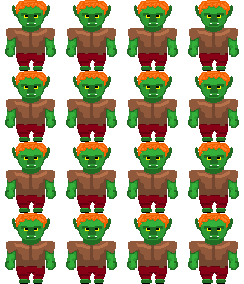
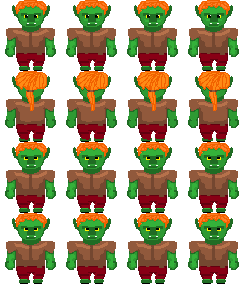
N & S directions drawn for the Orc

diff --git a/js/World.js b/js/World.js
@@ -30,7 +30,7 @@ var fallDale =   [  0, 29, 29, 29, 29, 29, 29, 29, 29, 29, 29, 33,  0,  0, 27, 1
 					0,  0,  0,  1,313,314,  0,  0,  0,  0,  0,  0,  0,  0,  0, 17,  0,222,  1,  1,  1,218,  1,223, 33,  1,  0,222,  1,  1,  1,218,  1,223, 33,  0,  0,  0,  0,  0,  0,  1,  0,  0,  0,  0,  0,  0,  0,  0,  0,  0,  0,  0,  0,  0,  0,  0,  0,  0,  0,  0,310,310, 
 				    0,  0,  0,  1,  0,  0,  0,  0,  0,  0,  0,  0,  0,  0,  0, 17,  0,236,236,219,221,221,236,236, 32,  1,  0,236,236,219,221,221,236,236, 32,  0,  0,  0,  0,  0,  0,  1,  0,  0,  0,  0,  0,  0,  0,  0,  0,  0,  0,  0,  0,  0,  0,  0,  0,  0,  0,  0,  0,  0, 
 				    0,  0,  0,  1,  0,  0,  0,  0,  0,  0,  0,  0,  0,  0,  0, 20,  0,300,  0,  1,  0,315,316,300,  0,  1,  0,317,318,  1,  0,  0,  0,  0,  0,  0,  0,  0,  0,  0,  0,  1,  0,  0,  0,  0,  0,  0,  0,  0,  0,  0,  0,  0,  0,  0,  0,  0,  0,  0,  0,  0,  0,  0,
-					1,801,  1,801,  1,801,  1,801,  1,  1,801,  1,801,  1,801, 21,  1,  1,  1,  1,  1,  1,  1,  1,  1,  1,  1,  1,  1,  1,  1,  1,  1,  1,  1,  1,  1,  1,860,  1,  1,  1,  1,  1,  1,  1,  1,  1,  1,  1,  1,  1,  1,  1,  1,  1,  1,  1,  1,  1,  1,  1,  1,  1,
+					1,801,  1,801,806,801,  1,801,  1,  1,801,  1,801,  1,801, 21,  1,  1,  1,  1,  1,  1,  1,  1,  1,  1,  1,  1,  1,  1,  1,  1,  1,  1,  1,  1,  1,  1,860,  1,  1,  1,  1,  1,  1,  1,  1,  1,  1,  1,  1,  1,  1,  1,  1,  1,  1,  1,  1,  1,  1,  1,  1,  1,
 				    0,  0,  0,  0,  0,  0,  0,  0,  0,  1,  0,  0,  0,  0,  0, 17,  0,  0,  0,  0,  0,  0,  0,  0,  1,  1,  1,  0,  0,  1,  0,  0,  0,  0,  0,  0,  0,  0,  0,  0,  0,  1,  0,  0,  0,  0,  0,  0,  1,  0,  0,  0,  0,  0,  0,  0,  0,  0,  0,  0,  0,  0,  0,  0,
 				    0,  0,  0,  0,  0,  0,  0,  0,  0,  1,  0,  0,  0,  0,  0, 17,  0,  0,  0,  0,  0,  0,  0,  0,  1,  1,  1,  0,228,  1,231,226,226,226,229, 33,  0,  0,  0,  0,  0,  1,  0,  0,  0,  0,  0,  0,  1,  0,  0,  0,  0,  0,  0,  0,  0,  0,  0,  0,  0,  0,  0,  0,
 				    0,  0,  0,  0,  0,  0,  0,  0,  0,  1,  0,  0,  0,  0,  0, 17,  0,  0,  0,  0,  0,  0,  0,  0,  1,  1,  1,  0,222,  1,232,214,214,214,223, 33,  0,  0,  0,  0,  0,  1,  0,  0,  0,  0,228,225,  1,225,225,225,225,225,225,229,  0,  0,  0,  0,  0,  0, 24, 25,
